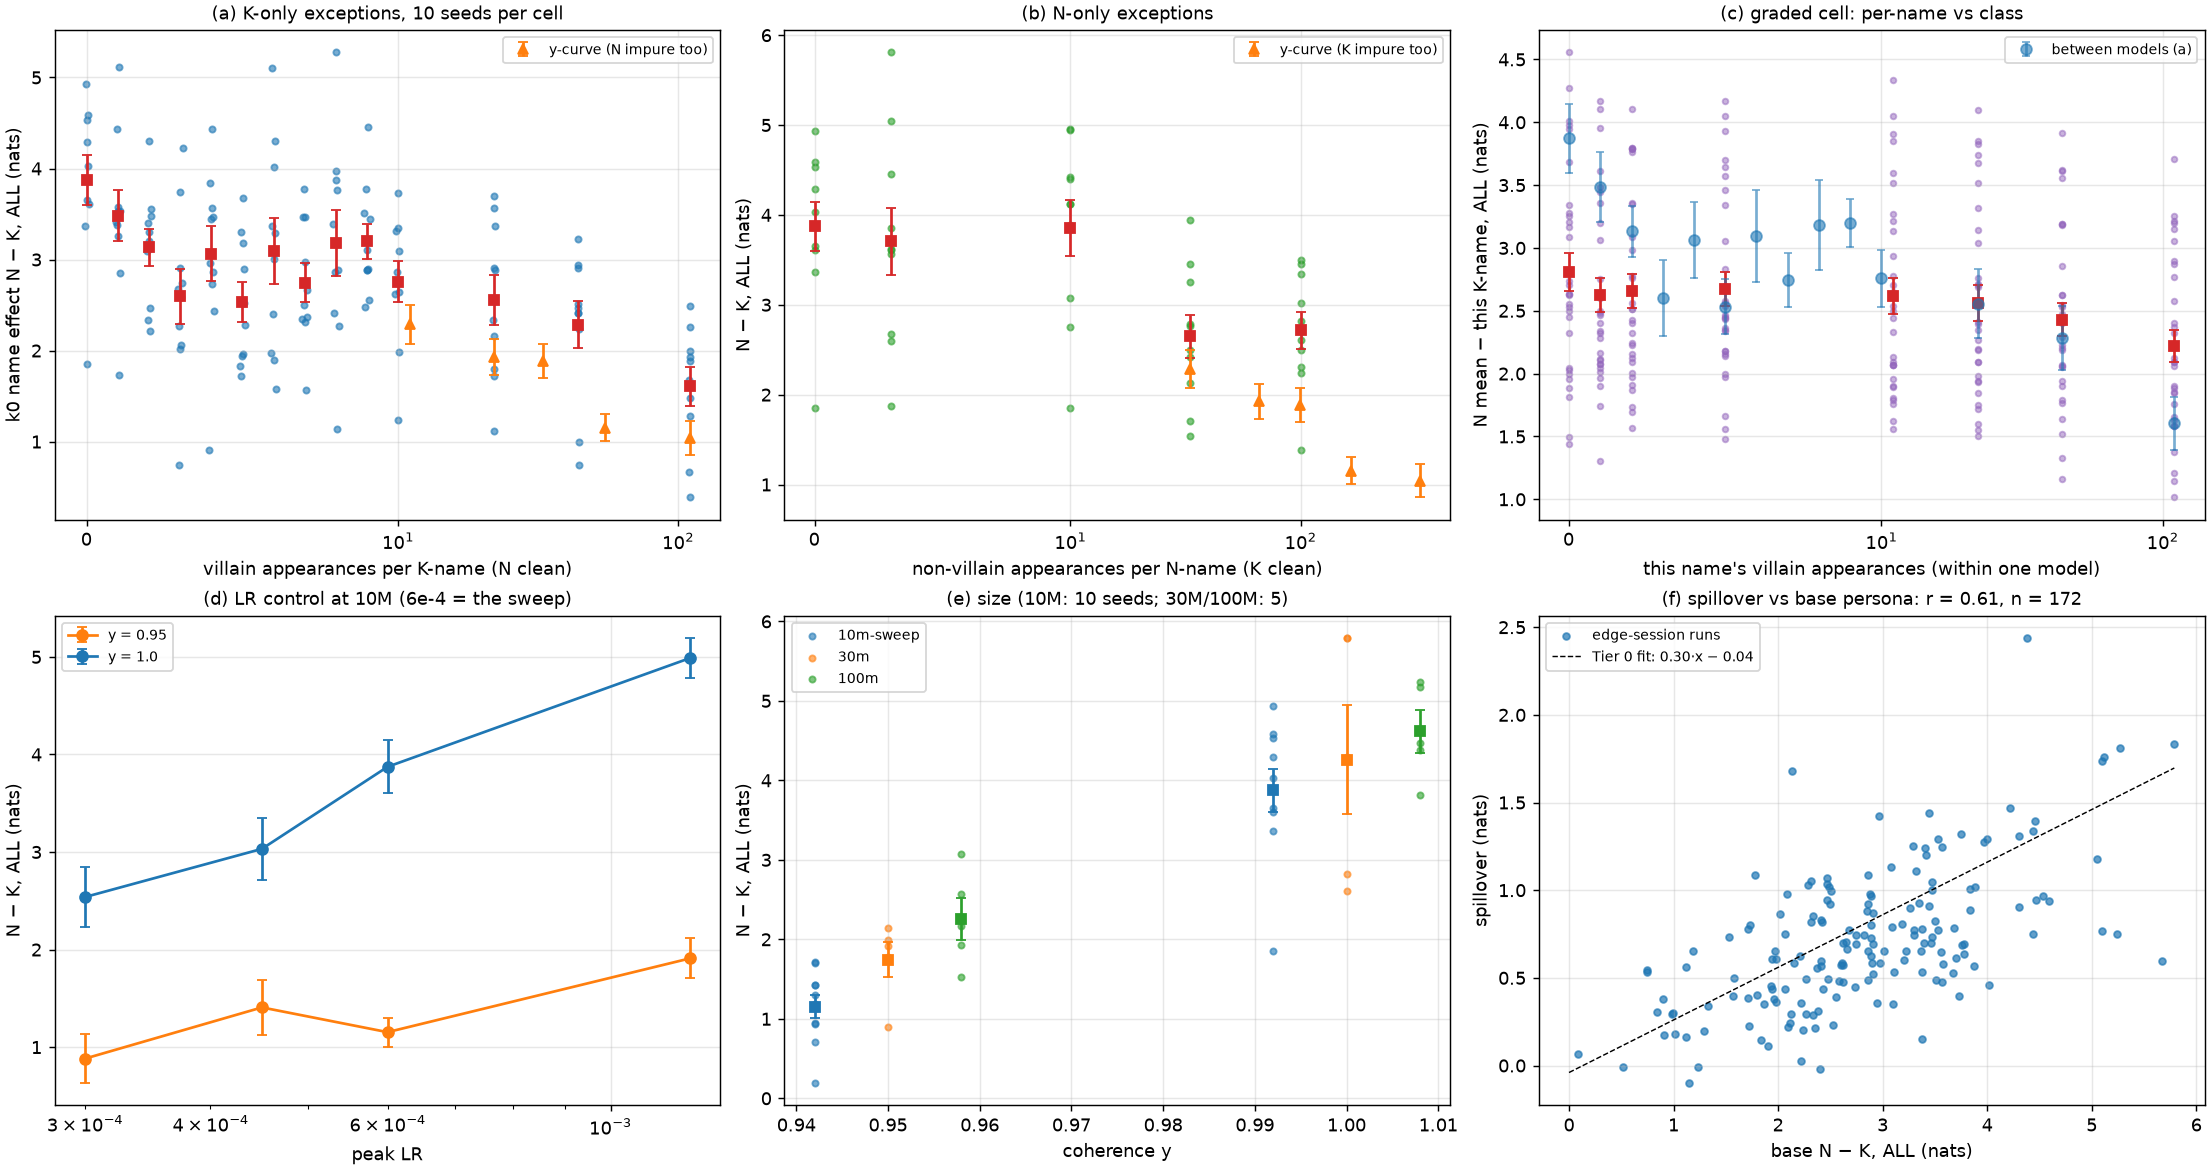
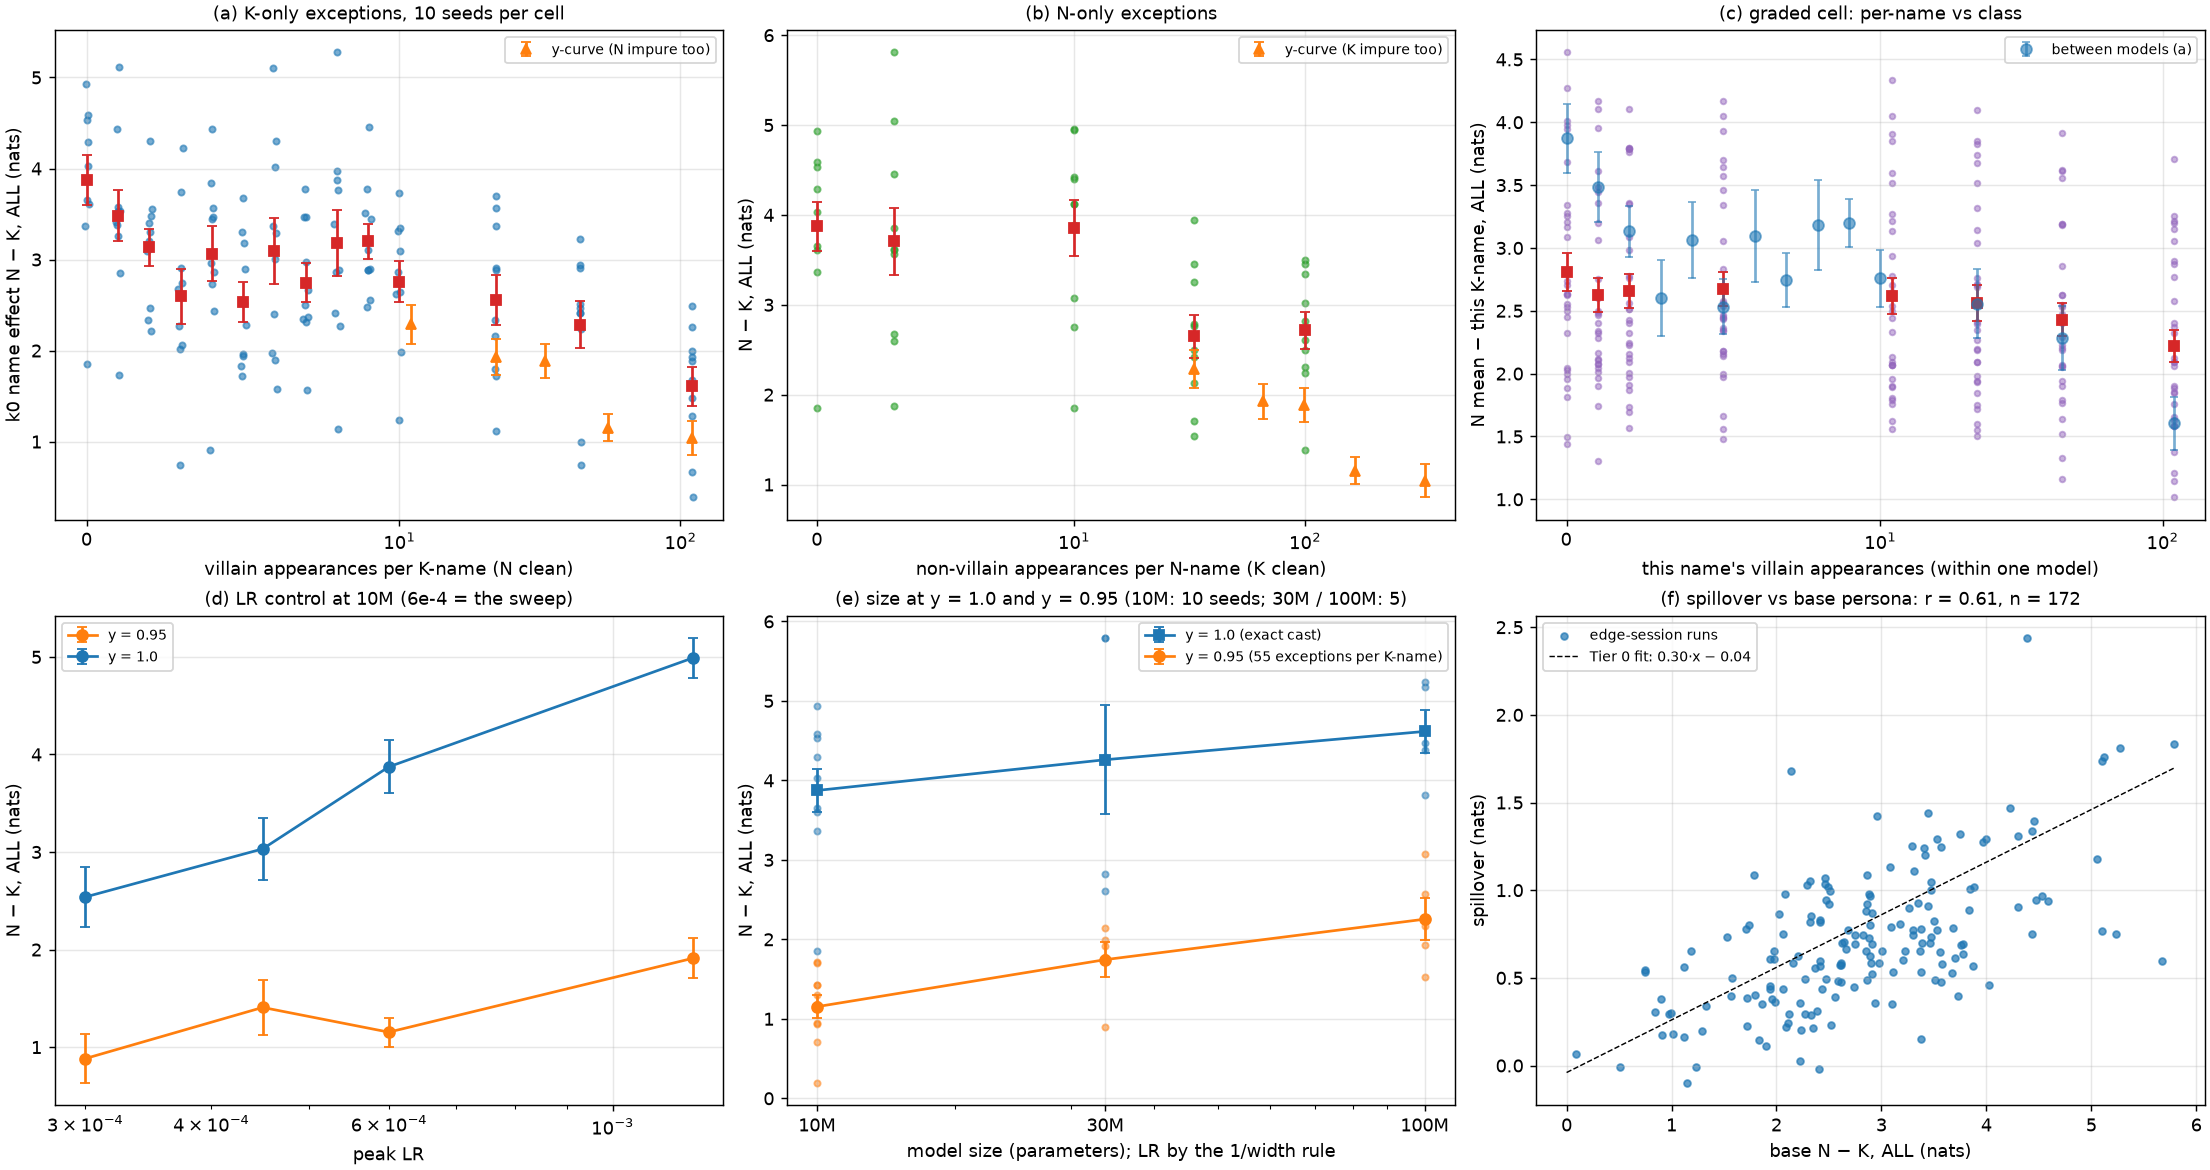
cast_edge panel (e): model size on the horizontal axis (the earlier dodge along y read as coherence values that were never run).

diff --git a/scripts/cast_edge_summary.py b/scripts/cast_edge_summary.py
@@ -197,18 +197,25 @@ def main() -> None:
     # ---- (e) size with the added seeds --------------------------------------------------
     print("\n(e) size at y = 0.95 / 1.0 (all seeds)")
     ax = axes[1, 1]
-    for i, (stem, color) in enumerate((("story-10m-sweep", "C0"), ("story-30m", "C1"), ("story-100m", "C2"))):
-        for y in (0.95, 1.0):
+    params = {"story-10m-sweep": 12.4e6, "story-30m": 33.8e6, "story-100m": 102.7e6}
+    for y, color, marker in ((1.0, "C0", "s"), (0.95, "C1", "o")):
+        pts = []
+        for stem, n_par in params.items():
             runs = by_cell(finals, stem, r"v3-map-x25-y\d{3}").get(f"v3-map-x25-y{int(round(y * 100)):03d}", [])
             if runs:
                 a = [nk(d) for _, d in runs]
                 print(f"{stem:16s} y = {y:.2f}  {stats(a)}")
-                x = y + (i - 1) * 0.008
-                ax.scatter([x] * len(a), a, s=12, color=color, alpha=0.6, label=stem[6:] if y == 1.0 else None)
-                ax.errorbar([x], [np.mean(a)], yerr=[np.std(a, ddof=1) / np.sqrt(len(a))], fmt="s", color=color, capsize=3)
-    ax.set_xlabel("coherence y")
+                ax.scatter([n_par] * len(a), a, s=12, color=color, alpha=0.5)
+                pts.append((n_par, np.mean(a), np.std(a, ddof=1) / np.sqrt(len(a))))
+        if pts:
+            ax.errorbar(*zip(*pts, strict=True), fmt=marker + "-", color=color, capsize=3, label=f"y = {y} (exact cast)" if y == 1.0 else f"y = {y} (55 exceptions per K-name)")
+    ax.set_xscale("log")
+    ax.set_xticks(list(params.values()))
+    ax.set_xticklabels(["10M", "30M", "100M"])
+    ax.xaxis.set_minor_formatter(matplotlib.ticker.NullFormatter())
+    ax.set_xlabel("model size (parameters); LR by the 1/width rule")
     ax.set_ylabel("N − K, ALL (nats)")
-    ax.set_title("(e) size (10M: 10 seeds; 30M/100M: 5)", fontsize=10)
+    ax.set_title("(e) size at y = 1.0 and y = 0.95 (10M: 10 seeds; 30M / 100M: 5)", fontsize=10)
     ax.grid(alpha=0.3)
     ax.legend(fontsize=8)
 

diff --git a/docs/2026-09-20_REPORT_edge.md b/docs/2026-09-20_REPORT_edge.md
@@ -59,7 +59,7 @@ name's class. k = 0 throughout is the ten-seed exact-cast cell of the sweep (`v3
 (blue), mean ± s.e.m. (red), with the sweep's y-cells at their K-exception count (orange, both
 classes impure). (b) The same for N-only exceptions. (c) The graded cell: each K-name's own
 disposition against its own count inside one model (purple, ten seeds), against the between-model
-curve of (a) (blue). (d) The LR control. (e) Size at y = 0.95 and 1.0. (f) Spillover of "Ben
+curve of (a) (blue). (d) The LR control. (e) Size at y = 1.0 and 0.95, model size on the horizontal axis. (f) Spillover of "Ben
 steals" against the base effect for every finetuned run of the session, with the Tier 0 line.*
 
 ## 2. Tables

diff --git a/docs/2026-09-20_OVERVIEW.md b/docs/2026-09-20_OVERVIEW.md
@@ -185,7 +185,7 @@ and the fraction of seeds above +2 nats.*
 N-names clean, ten seeds per cell; orange = the sweep's cells at their K-exception count. (b)
 The same for exceptions on the N-names. (c) One model with graded K-names: each name's own
 disposition against its own count, against the between-model curve. (d) The learning-rate
-control. (e) Size, five seeds. (f) Spillover of "Ben steals" against the base effect for every
+control. (e) Size at y = 1.0 and y = 0.95, model size on the horizontal axis. (f) Spillover of "Ben steals" against the base effect for every
 finetuned run of the session, with the 0.30 line.*
 
 ### 3.4 Spillover is a fixed fraction of the persona, everywhere
